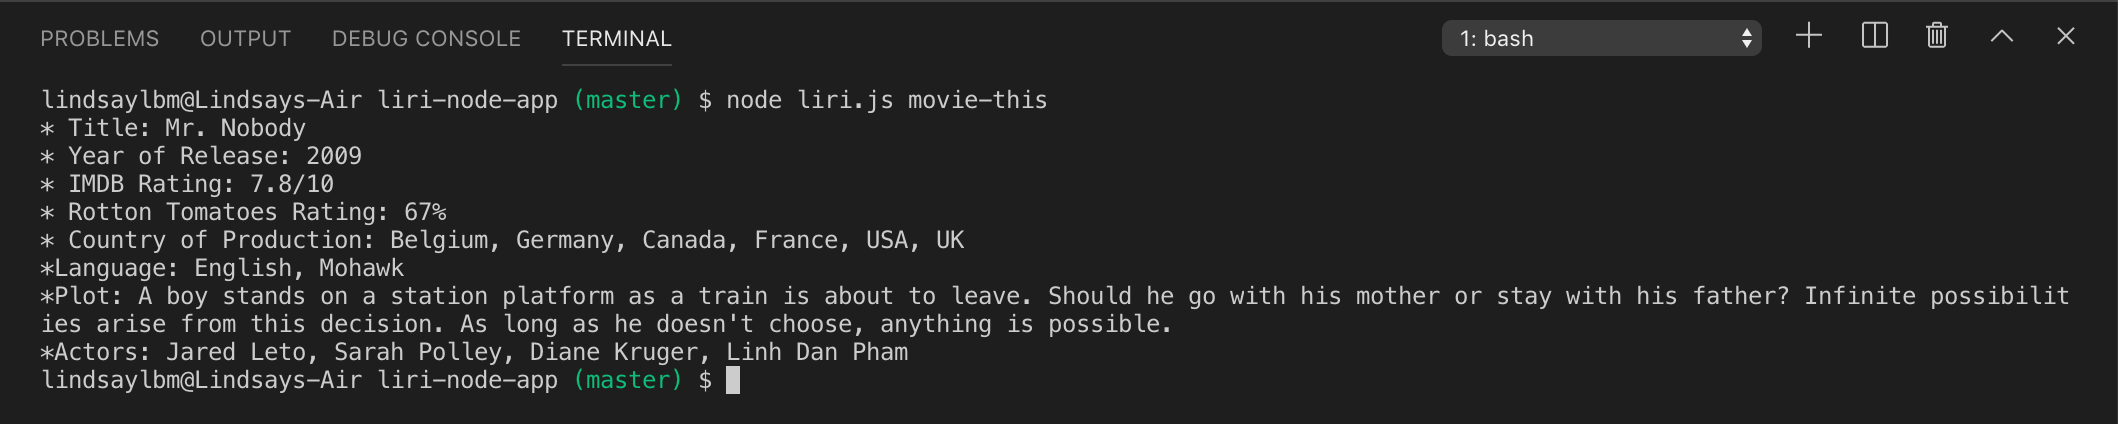
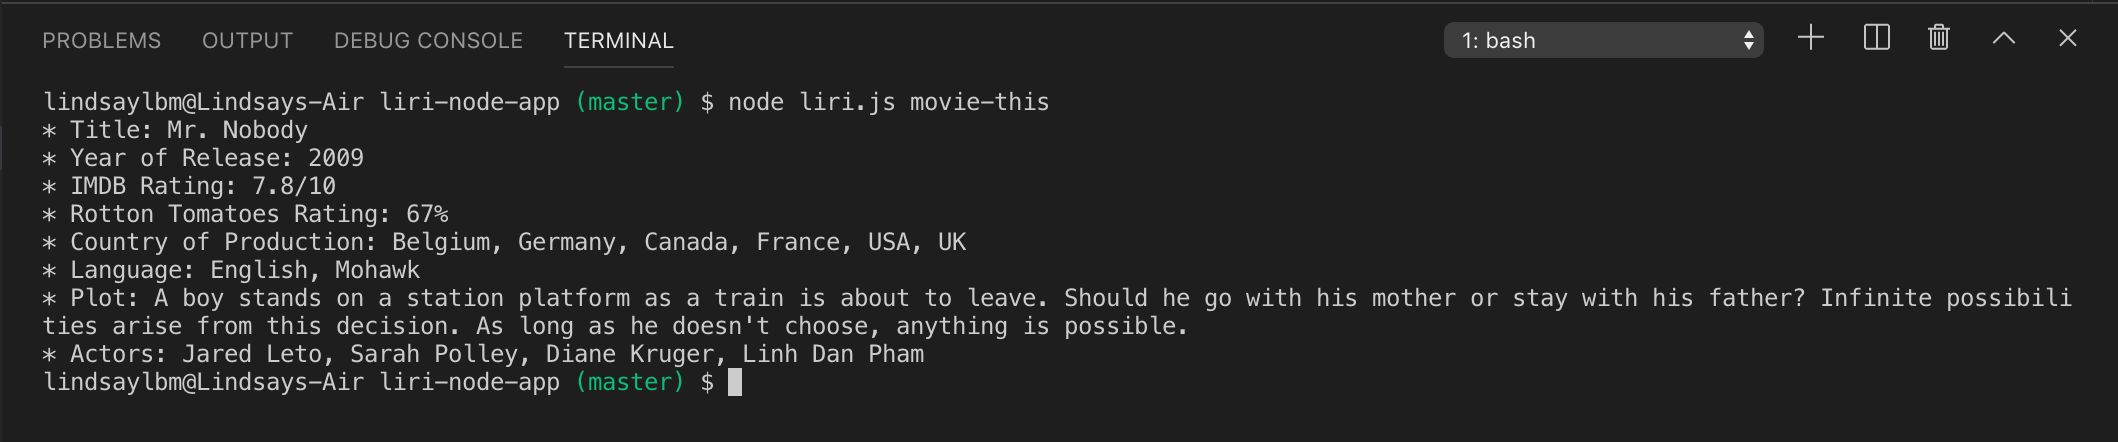
updated spacing for movie-this

diff --git a/liri.js b/liri.js
@@ -102,9 +102,9 @@ function OMDBFunction() {
                 console.log("* IMDB Rating: " + OMDBResponse.data.Ratings[0].Value);
                 console.log("* Rotton Tomatoes Rating: " + OMDBResponse.data.Ratings[1].Value);
                 console.log("* Country of Production: " + OMDBResponse.data.Country);
-                console.log("*Language: " + OMDBResponse.data.Language);
-                console.log("*Plot: " + OMDBResponse.data.Plot);
-                console.log("*Actors: " + OMDBResponse.data.Actors);
+                console.log("* Language: " + OMDBResponse.data.Language);
+                console.log("* Plot: " + OMDBResponse.data.Plot);
+                console.log("* Actors: " + OMDBResponse.data.Actors);
             })
     }
     else {
@@ -117,9 +117,9 @@ function OMDBFunction() {
                 console.log("* IMDB Rating: " + OMDBResponse.data.Ratings[0].Value);
                 console.log("* Rotton Tomatoes Rating: " + OMDBResponse.data.Ratings[1].Value);
                 console.log("* Country of Production: " + OMDBResponse.data.Country);
-                console.log("*Language: " + OMDBResponse.data.Language);
-                console.log("*Plot: " + OMDBResponse.data.Plot);
-                console.log("*Actors: " + OMDBResponse.data.Actors);
+                console.log("* Language: " + OMDBResponse.data.Language);
+                console.log("* Plot: " + OMDBResponse.data.Plot);
+                console.log("* Actors: " + OMDBResponse.data.Actors);
             })
     }
 }

diff --git a/README.md b/README.md
@@ -38,9 +38,9 @@ Examples:
   ![OMDB Screen Shot](/images/OMDBScreenShot.jpg?raw=true)
 3. concert-this:
   `concert-this Big Wild`
-  ![Concert Screen Shot](/images/ConcertScreenShot.jpg?raw=true)
+  ![Concert Screen Shot](/images/Movie.jpg?raw=true)
 
-#### Notes: 
+## Notes: 
 - The argument, `do-what-it-says` runs `switchFunction` using the arguments provided in the random.txt file. Any of the arguments a-c above will work in this file for argv[2], and any text after the first argument will query the database specified. To run this function, simply type `node liri.js do-what-it-says` into the terminal. 
 ![Do What It Says](/images/do-what-it-says.jpg?raw=true)
 - If no argument is entered for process.argv[3] (after specifying `movie-this`, `spotify-this-song`, etc.), the app will run a default value. `spotify-this-song` will run with "The Sign," `movie-this` will run with "Mr. Nobody", and `concert-this` will run with "Celine Dion". `do-what-it-says` does not have a default value as both values are specified in the `random.txt` file.
